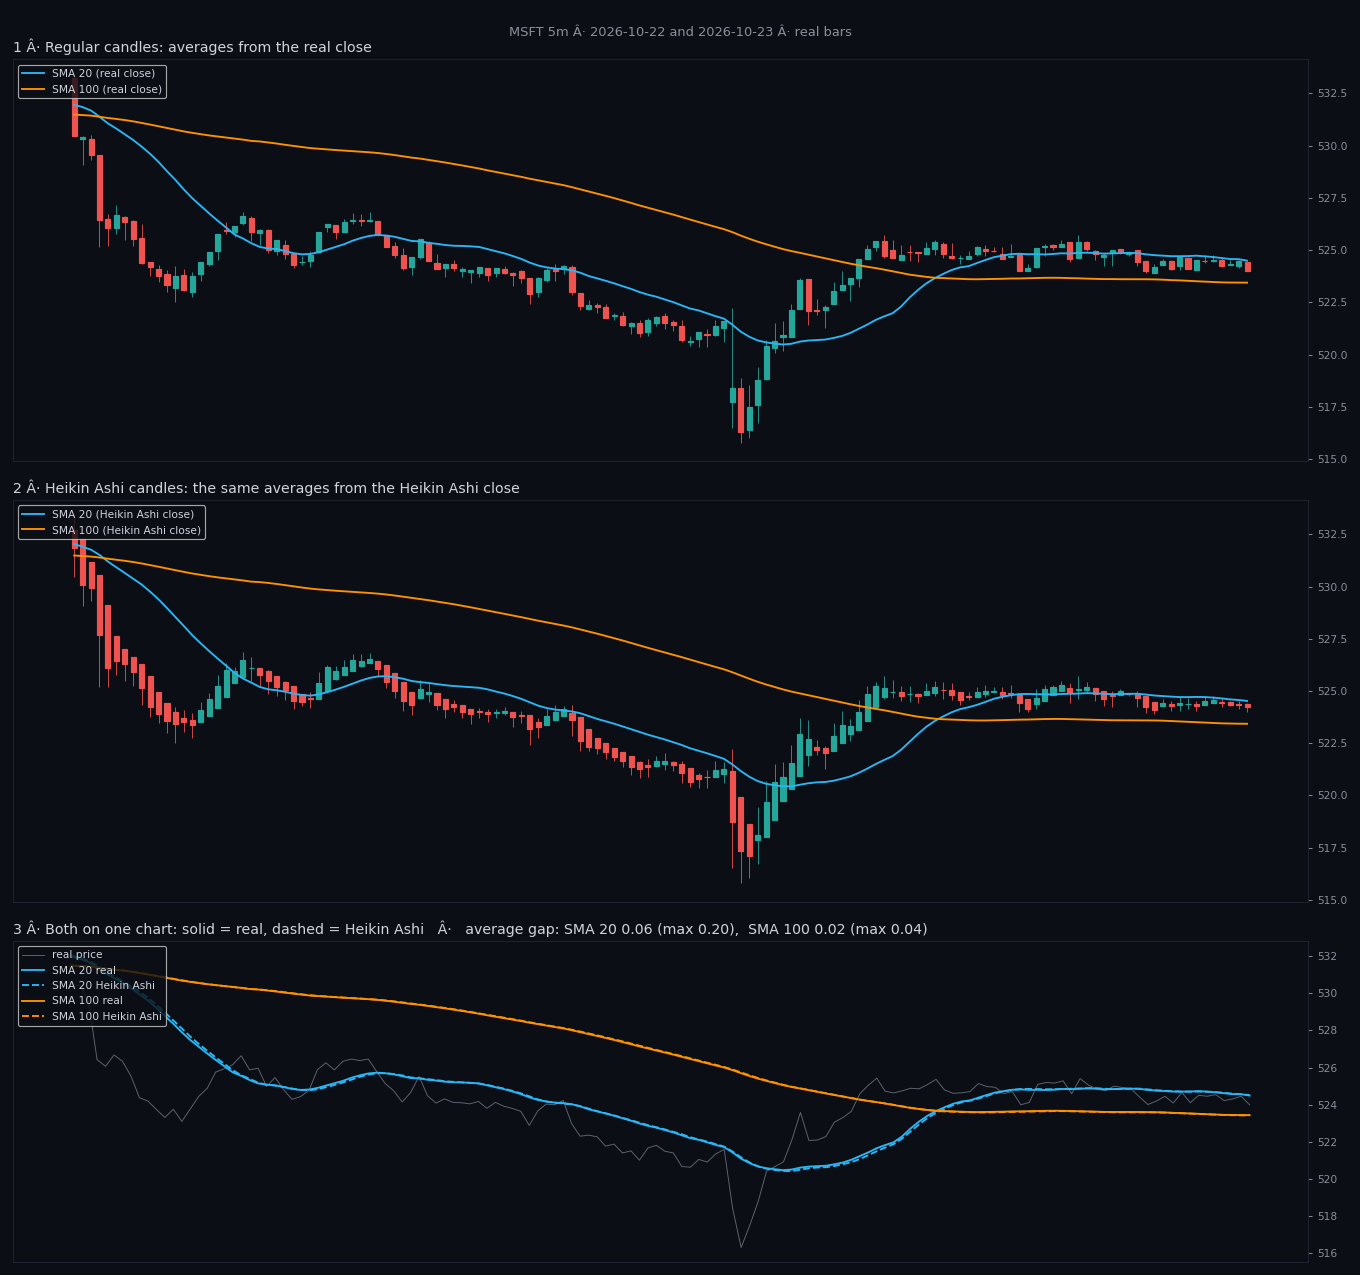
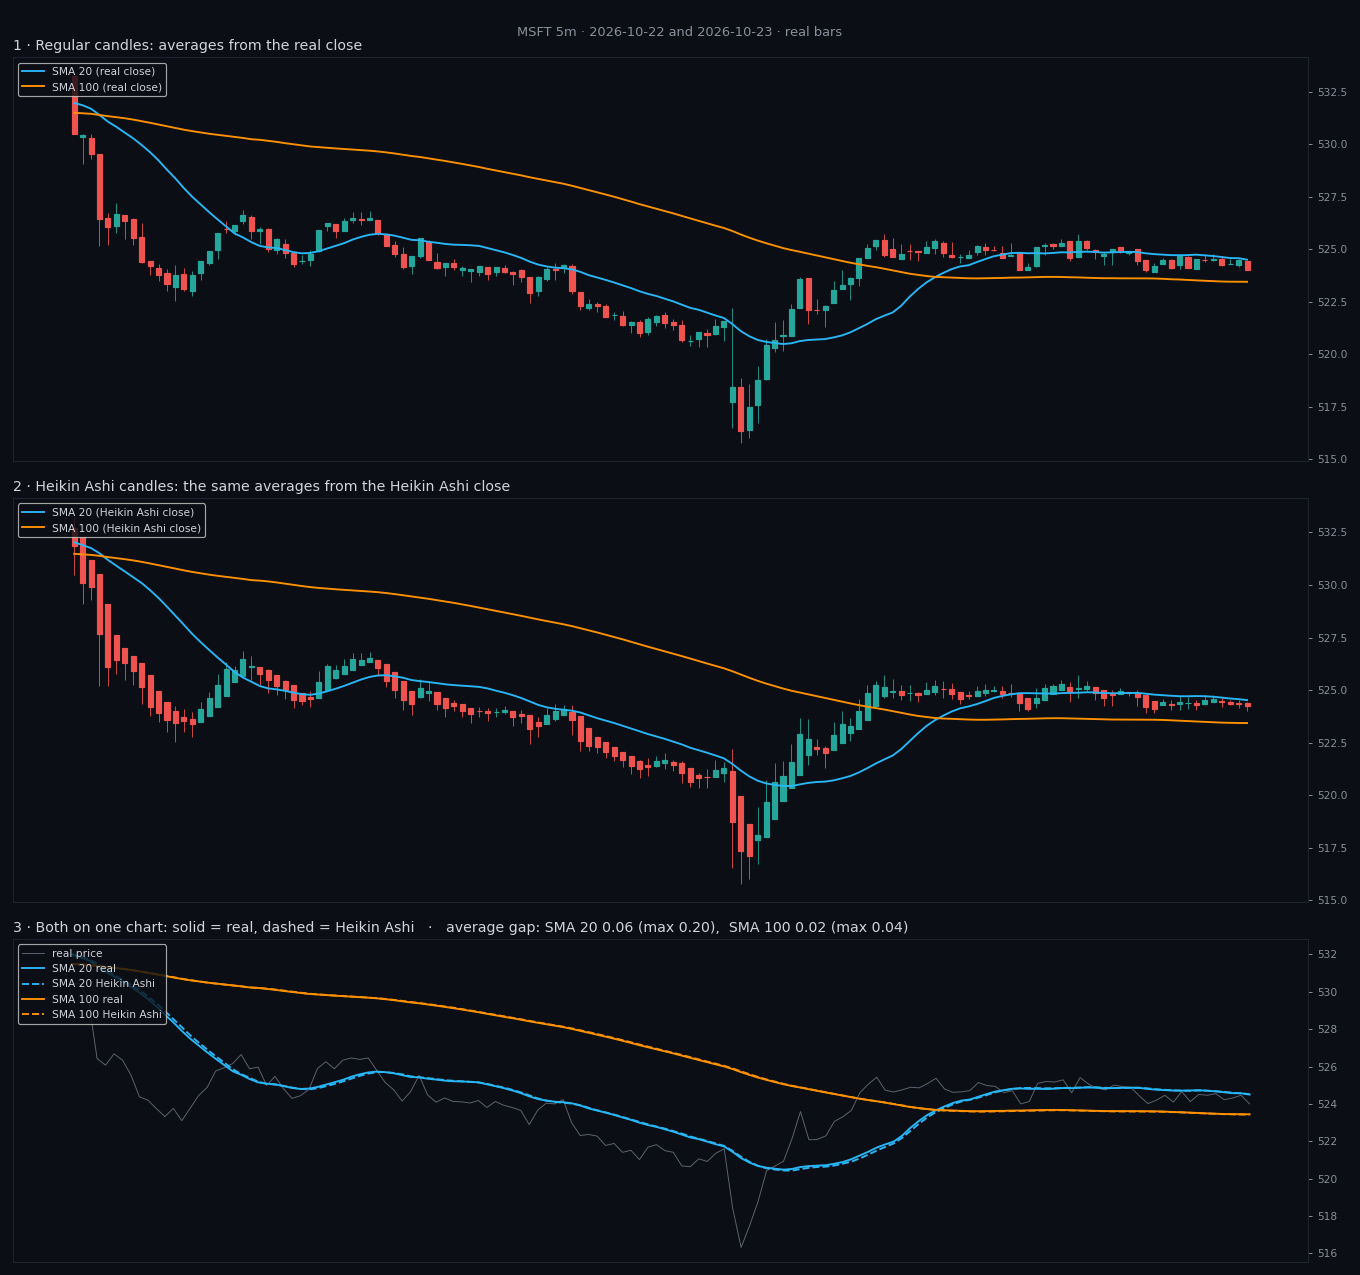
Fix garbled separators in the regular vs Heikin Ashi picture

diff --git a/reports/make_ma_ha_compare.py b/reports/make_ma_ha_compare.py
@@ -51,12 +51,12 @@ ax = axs[0]
 candles(ax, O[s], H[s], L[s], C[s])
 ax.plot(x, r20[s], color=C20, lw=1.6, label="SMA 20 (real close)")
 ax.plot(x, r100[s], color=C100, lw=1.6, label="SMA 100 (real close)")
-style(ax, f"1 Â· Regular candles: averages from the real close")
+style(ax, f"1 · Regular candles: averages from the real close")
 ax = axs[1]
 candles(ax, ho[s], hh[s], hl[s], hc[s])
 ax.plot(x, h20[s], color=C20, lw=1.6, label="SMA 20 (Heikin Ashi close)")
 ax.plot(x, h100[s], color=C100, lw=1.6, label="SMA 100 (Heikin Ashi close)")
-style(ax, f"2 Â· Heikin Ashi candles: the same averages from the Heikin Ashi close")
+style(ax, f"2 · Heikin Ashi candles: the same averages from the Heikin Ashi close")
 ax = axs[2]
 ax.plot(x, C[s], color="#5d6472", lw=0.8, label="real price")
 ax.plot(x, r20[s], color=C20, lw=1.6, label="SMA 20 real")
@@ -64,8 +64,8 @@ ax.plot(x, h20[s], color=C20, lw=1.6, ls="--", label="SMA 20 Heikin Ashi")
 ax.plot(x, r100[s], color=C100, lw=1.6, label="SMA 100 real")
 ax.plot(x, h100[s], color=C100, lw=1.6, ls="--", label="SMA 100 Heikin Ashi")
 d20, d100 = np.abs(r20[s] - h20[s]), np.abs(r100[s] - h100[s])
-style(ax, f"3 Â· Both on one chart: solid = real, dashed = Heikin Ashi   Â·   average gap: SMA 20 {np.nanmean(d20):.2f} (max {np.nanmax(d20):.2f}),  SMA 100 {np.nanmean(d100):.2f} (max {np.nanmax(d100):.2f})")
-fig.suptitle(f"{sym} 5m Â· {days[0]} and {days[1]} Â· real bars", color=MUT, fontsize=11)
+style(ax, f"3 · Both on one chart: solid = real, dashed = Heikin Ashi   ·   average gap: SMA 20 {np.nanmean(d20):.2f} (max {np.nanmax(d20):.2f}),  SMA 100 {np.nanmean(d100):.2f} (max {np.nanmax(d100):.2f})")
+fig.suptitle(f"{sym} 5m · {days[0]} and {days[1]} · real bars", color=MUT, fontsize=11)
 fig.tight_layout()
 out = os.path.join(ROOT, "reports", "styles", f"ma_regular_vs_ha_{sym}.png")
 fig.savefig(out, dpi=85, facecolor=BG)
